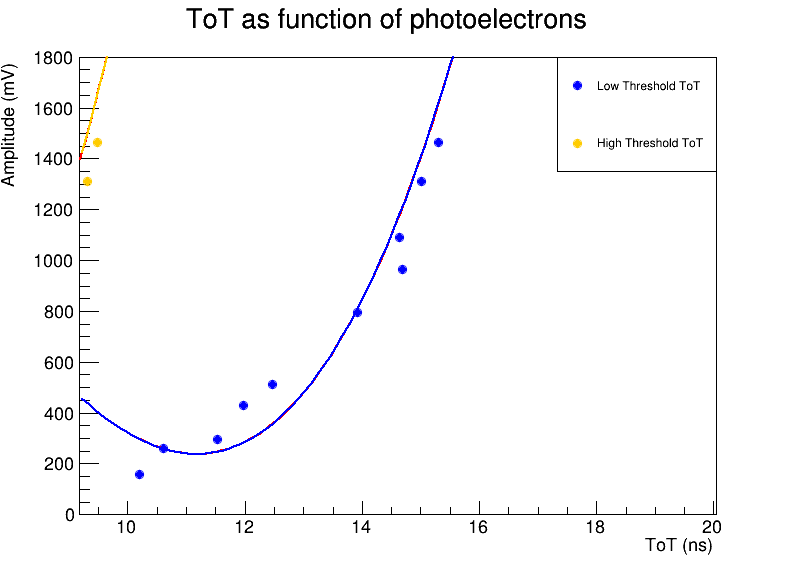
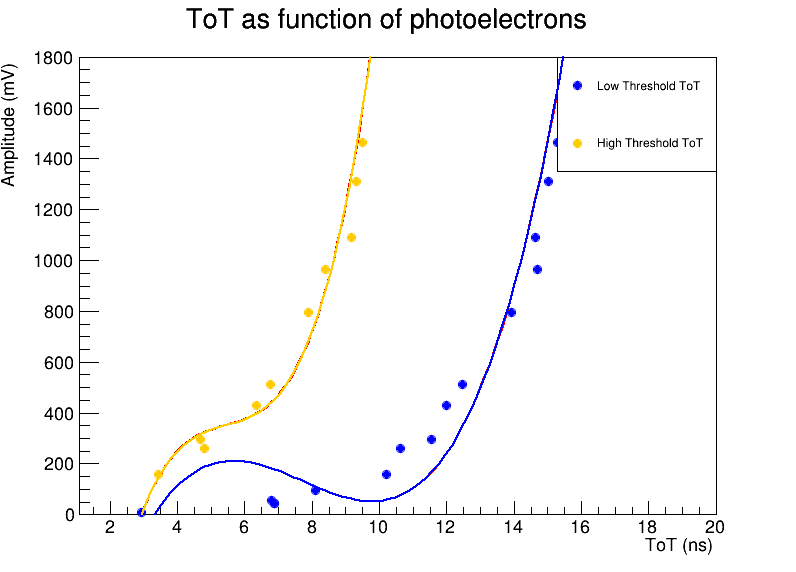
new commit

diff --git a/time_distribution_graph.C b/time_distribution_graph.C
@@ -236,18 +236,21 @@ int main() {
     }
 
     // Filtraggio dei valori negativi
-    std::vector<double> N_filtered, tot_l_filtered, tot_h_filtered;
+    std::vector<double> N_filtered, N_filtered_h, tot_l_filtered, tot_h_filtered;
     for (size_t i = 0; i < N.size(); ++i) {
-        if (tot_l[i] >= 0 && tot_h[i] >= 0) {
+      if (tot_l[i] >= 0) {
             N_filtered.push_back(N[i]);
             tot_l_filtered.push_back(tot_l[i]);
+        }
+       if (tot_h[i] >= 0) {
+            N_filtered_h.push_back(N[i]);
             tot_h_filtered.push_back(tot_h[i]);
         }
     }
 
     // Creazione del grafico usando ROOT
     TGraph *gr_low = new TGraph(N_filtered.size(), tot_l_filtered.data(), N_filtered.data());
-    TGraph *gr_high = new TGraph(N_filtered.size(), tot_h_filtered.data(), N_filtered.data());
+    TGraph *gr_high = new TGraph(N_filtered_h.size(), tot_h_filtered.data(), N_filtered_h.data());
     // Creazione di una tela per il disegno del grafico
     TCanvas *c1 = new TCanvas("c1", "N vs ToT", 800, 600);
 
@@ -271,8 +274,8 @@ int main() {
     legend->Draw();
 
     // Esegui il fitting dei dati
-    TF1 *fit_low = new TF1("fit_low", "[0]+[1]*x**2+[3]*x**3", 0, 20); // Fitting con un polinomio di secondo grado
-    TF1 *fit_high = new TF1("fit_high"," [0]+[1]*x**2+[3]*x**3", 0, 20);
+    TF1 *fit_low = new TF1("fit_low", "pol3", 0, 20); // Fitting con un polinomio di secondo grado
+    TF1 *fit_high = new TF1("fit_high","pol3", 0, 20);
 
     gr_low->Fit(fit_low);
     gr_high->Fit(fit_high);
